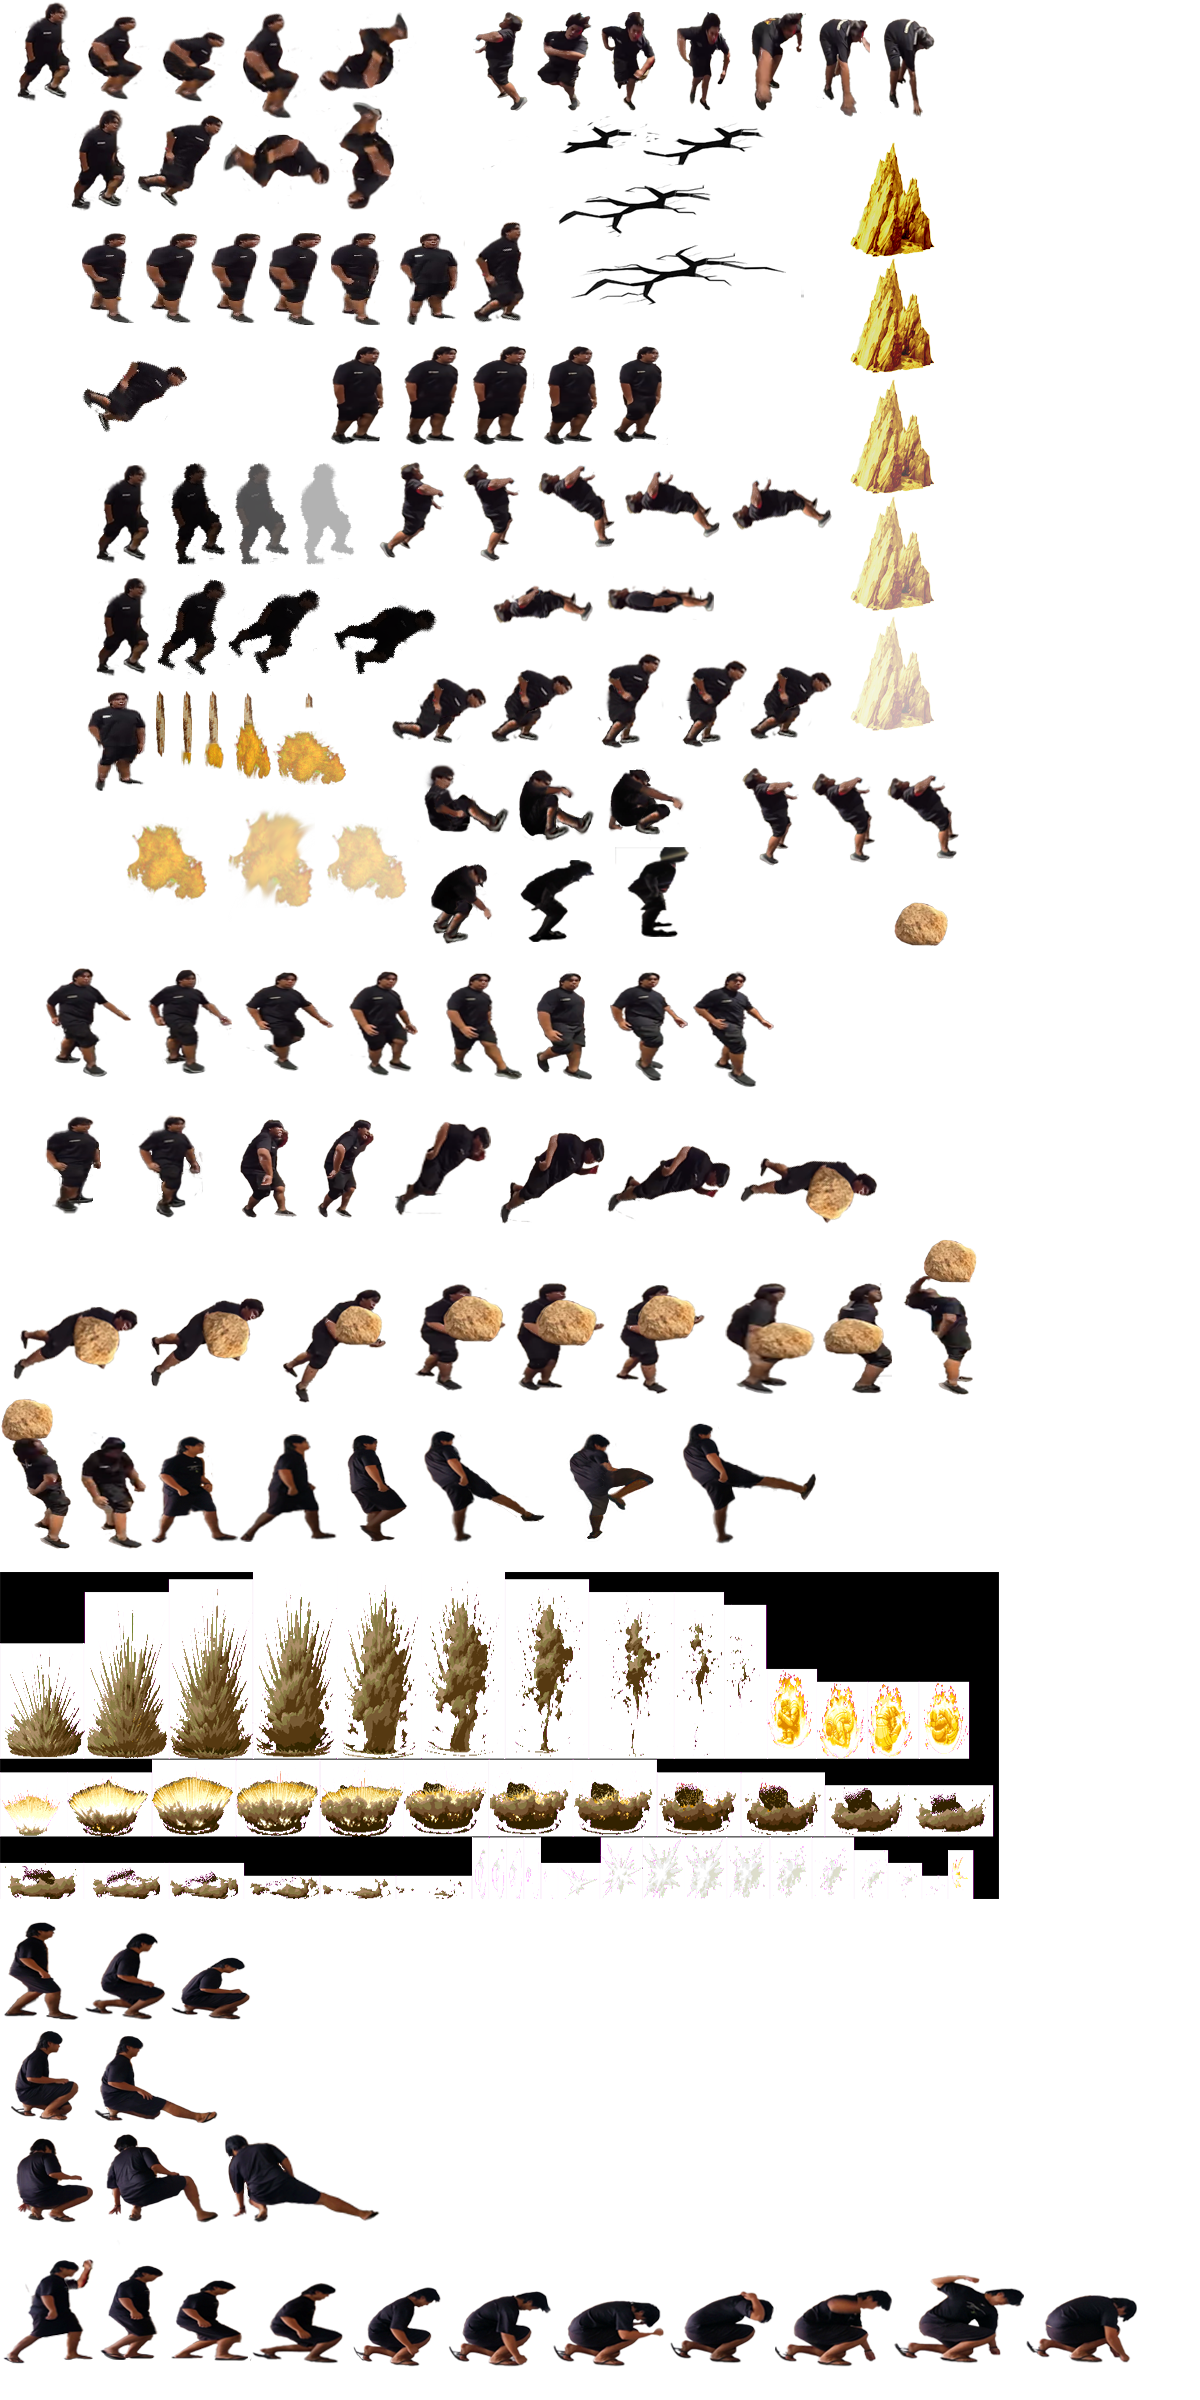
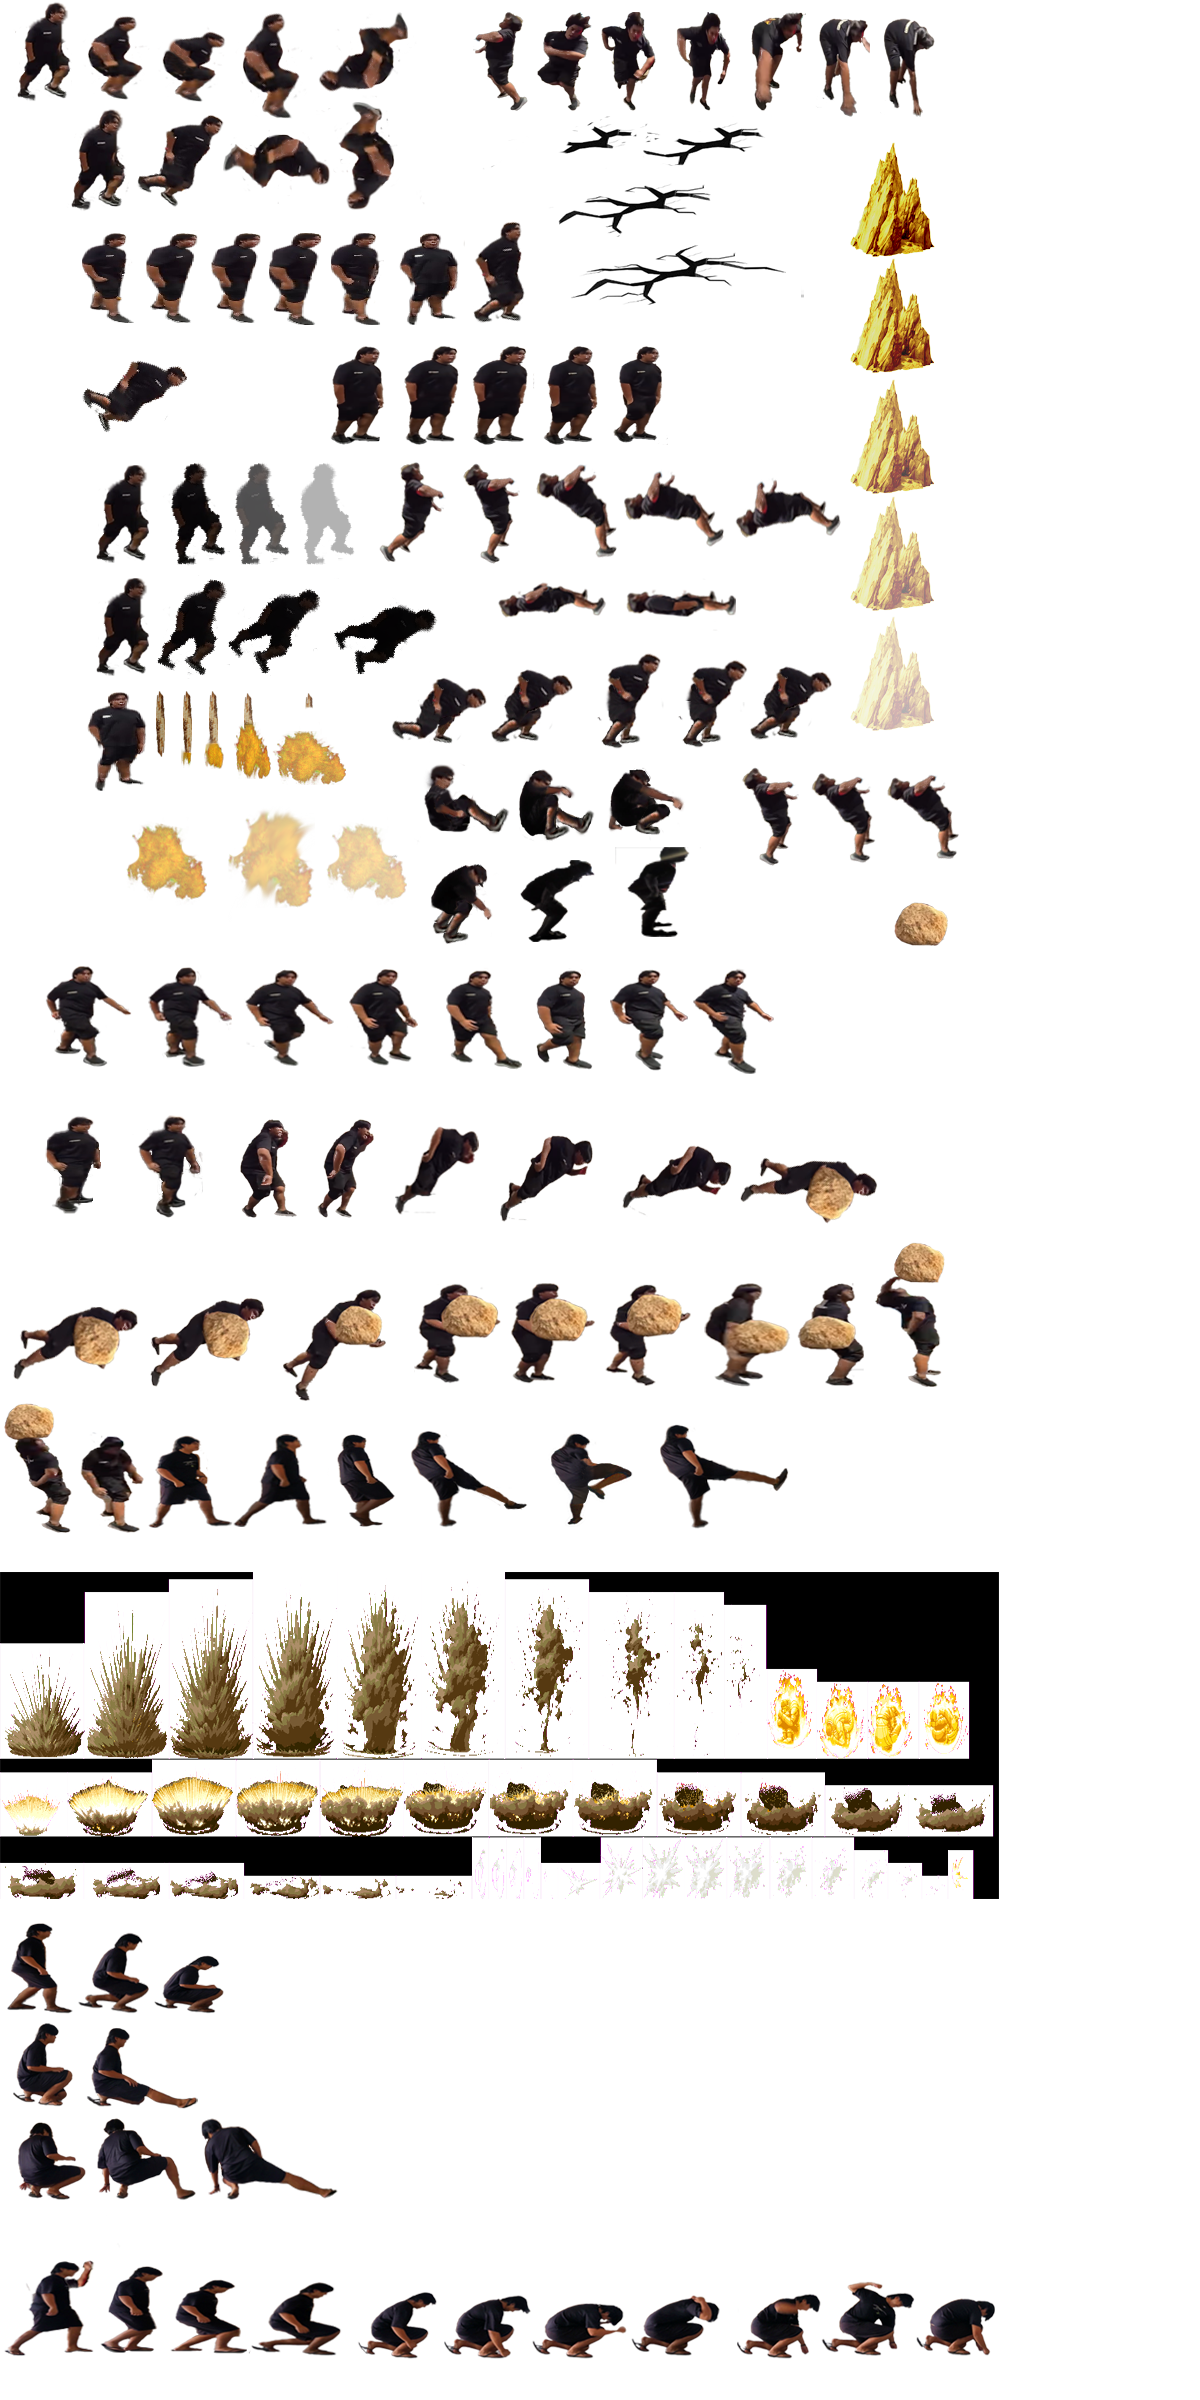
fix golem size dec 18 2025

diff --git a/src/entities/fighters/Golem.js b/src/entities/fighters/Golem.js
@@ -47,14 +47,14 @@ export class Golem extends Fighter {
             ['forwards-4', [[[543, 346,55,99],[27,97]], [-13,-82,33,78],[[-5,-95,32,22],[-20,-80,44,38],[-20,-41,40,39]]]],
             ['forwards-5', [[[613, 346,55,99],[27,97]], [-13,-82,33,78],[[-5,-95,32,22],[-20,-80,44,38],[-20,-41,40,39]]]],
 
-            ['forwards2-1', [[[45,968, 87, 109],[43,105]], PushBox.IDLE, HurtBox.IDLE]],
-            ['forwards2-2', [[[148,968, 84, 106],[42,102]], PushBox.IDLE, HurtBox.IDLE]],
-            ['forwards2-3', [[[244,972, 90, 99],[45,95]], PushBox.IDLE, HurtBox.IDLE]],
-            ['forwards2-4', [[[347,971, 71, 105],[35,101]], PushBox.IDLE, HurtBox.IDLE]],
-            ['forwards2-5', [[[446,970, 76, 111],[37,107]], PushBox.IDLE, HurtBox.IDLE]],
-            ['forwards2-6', [[[536,971, 57, 109],[28,105]], PushBox.IDLE, HurtBox.IDLE]],
-            ['forwards2-7', [[[610,972, 78, 109],[39,105]], PushBox.IDLE, HurtBox.IDLE]],
-            ['forwards2-8', [[[693,971, 81, 116],[40,112]], PushBox.IDLE, HurtBox.IDLE]],
+            ['forwards2-1', [[[45,966, 87, 101],[44,99]], PushBox.IDLE, HurtBox.IDLE]],
+            ['forwards2-2', [[[148,967, 84, 101],[42,99]], PushBox.IDLE, HurtBox.IDLE]],
+            ['forwards2-3', [[[244,969, 90, 98],[45,96]], PushBox.IDLE, HurtBox.IDLE]],
+            ['forwards2-4', [[[347,968, 71, 98],[35,96]], PushBox.IDLE, HurtBox.IDLE]],
+            ['forwards2-5', [[[446,967, 76, 103],[38,101]], PushBox.IDLE, HurtBox.IDLE]],
+            ['forwards2-6', [[[536,968, 57, 102],[28,100]], PushBox.IDLE, HurtBox.IDLE]],
+            ['forwards2-7', [[[610,969, 78, 102],[39,100]], PushBox.IDLE, HurtBox.IDLE]],
+            ['forwards2-8', [[[693,968, 81, 106],[40,104]], PushBox.IDLE, HurtBox.IDLE]],
             
             
             
@@ -76,9 +76,9 @@ export class Golem extends Fighter {
             ['jump-land', [[[87, 16, 56, 83], [28,81]], PushBox.IDLE, HurtBox.IDLE]],
 
              //Crouch
-            ['crouch-1', [[[4, 1922, 75, 98], [37,96]], PushBox.IDLE, HurtBox.JUMP]],
-            ['crouch-2', [[[84, 1932, 82, 88], [41,86]], PushBox.BEND, HurtBox.BEND]],
-            ['crouch-3', [[[171, 1957, 80, 63], [40,61]], PushBox.CROUCH, HurtBox.CROUCH]], 
+            ['crouch-1', [[[7, 1923, 66, 91], [33,89]], PushBox.IDLE, HurtBox.JUMP]],
+            ['crouch-2', [[[78, 1932, 71, 82], [35,80]], PushBox.BEND, HurtBox.BEND]],
+            ['crouch-3', [[[154, 1955, 70, 59], [35,61]], PushBox.CROUCH, HurtBox.CROUCH]], 
 
             // crouch old
            // ['crouch-1', [[[16, 3, 55, 98], [26,96]], PushBox.IDLE, HurtBox.JUMP]],
@@ -106,15 +106,14 @@ export class Golem extends Fighter {
             ['crouch-block-1', [[[558, 127, 62, 49], [31,24]], PushBox.CROUCH, HurtBox.CROUCH,]],
             
               //Crouch Light Kick
-            ['crouch-lightkick-1', [[[11, 2031, 68, 90], [34,88]], PushBox.CROUCH, HurtBox.CROUCH]],
-            ['crouch-lightkick-2', [[[94, 2035, 124, 89], [62,87]], [-55,-68,32,54], [[-42,-88,28,22],[-55,-65,36,47],[-60,-25,117,20]], [5,-17,54,16] ]],
-
+            ['crouch-lightkick-1', [[[13, 2023, 61, 84], [30,82]], PushBox.CROUCH, HurtBox.CROUCH]],
+            ['crouch-lightkick-2', [[[86, 2027, 112, 82], [66,80]], [-55,-68,32,54], [[-42,-88,28,22],[-55,-65,36,47],[-60,-25,117,20]], [5,-17,54,16] ]],
 
             //Crouch Heavvy Kick
-            ['crouch-heavykick-1', [[[16, 2138, 77, 85], [38,83]], [-32,-65,32,53], [[-30,-83,28,21],[-36,-64,51,63],[-37,-35,74,20]]]],
-            ['crouch-heavykick-2', [[[106, 2134, 113, 89], [56,87]],[-32,-65,32,53], [[-30,-83,28,21],[-36,-64,51,63],[-37,-35,90,20]]]],
-            ['crouch-heavykick-3', [[[224, 2134, 156, 89], [78,87]], [-66,-73,57,54], [[-78,-87,28,22],[-69,-74,63,64],[-49,-20,125,20]], [-8,-25,86,23]]],
-            ['crouch-heavykick-3-nohit', [[[224, 2134, 156, 89], [78,87]], [-66,-73,57,54], [[-78,-87,28,22],[-69,-74,63,64],[-49,-20,125,20]]]],
+            ['crouch-heavykick-1', [[[17, 2122, 69, 78], [40,76]], [-32,-65,32,53], [[-30,-83,28,21],[-36,-64,51,63],[-37,-35,74,20]]]],
+            ['crouch-heavykick-2', [[[97, 2118, 99, 83], [50,81]],[-32,-65,32,53], [[-30,-83,28,21],[-36,-64,51,63],[-37,-35,90,20]]]],
+            ['crouch-heavykick-3', [[[201, 2118, 135, 82], [67,80]], [-66,-73,57,54], [[-78,-87,28,22],[-69,-74,63,64],[-49,-20,125,20]], [-8,-25,86,23]]],
+            ['crouch-heavykick-3-nohit', [[[201, 2118, 135, 82], [67,80]], [-66,-73,57,54], [[-78,-87,28,22],[-69,-74,63,64],[-49,-20,125,20]]]],
 
             //Jump-attack
             ['jump-attack-1', [[[555, 42, 94, 54], [46,52]], PushBox.LIGHT_KICK, HurtBox.LIGHT_KICK, HitBox.JUMP_HEAVYKICKK]],
@@ -128,15 +127,15 @@ export class Golem extends Fighter {
             ['heavy-punch-1', [[[222, 133, 109, 55], [-8,77]], PushBox.BEND, [[3, -76, 30, 18],[3, -69, 84, 30], [-2, -52, 44, 58]], HitBox.HEAVY_PUNCH]],
 
              //lIGHT kick
-            ['light-kick-1', [[[347, 1434, 61, 108], [30,106]], [-20, -90, 40, 80],  [[-30, -108, 32, 22],[-30, -88, 44, 87], [-23, -50, 53, 20]]]],
-            ['light-kick-2', [[[423, 1429, 122, 118], [61,116]], PushBox.BEND, [[-58, -111, 32, 22],[-58, -88, 53, 87], [-35, -50, 94, 30]], [16,-35,45,16]]],
+            ['light-kick-1', [[[336, 1434, 59, 93], [30,91]], [-20, -90, 40, 80],  [[-30, -108, 32, 22],[-30, -88, 44, 87], [-23, -50, 53, 20]]]],
+            ['light-kick-2', [[[410, 1430, 118, 101], [59,99]], PushBox.BEND, [[-58, -111, 32, 22],[-58, -88, 53, 87], [-35, -50, 94, 30]], [16,-35,45,16]]],
 
              //Heavy kick
-            ['heavy-kick-1', [[[151, 1436, 87, 108], [44,106]], PushBox.BEND, [[3, -76, 30, 18],[-3, -59, 30, 20], [-32, -52, 44, 58]]]],
-            ['heavy-kick-2', [[[241, 1434, 98, 108], [49,106]], PushBox.BEND, [[3, -76, 30, 18],[-3, -59, 30, 20], [-32, -52, 44, 58]]]],
-            ['heavy-kick-3', [[[347, 1434, 61, 108], [30,106]], [-20, -90, 40, 80],  [[-30, -108, 32, 22],[-30, -88, 44, 87], [-23, -50, 53, 20]]]],
-            ['heavy-kick-4', [[[572, 1435, 86, 104], [43,102]], [-20, -90, 40, 80],  [[-30, -108, 32, 22],[-30, -88, 44, 87], [-23, -50, 53, 20]]]],
-            ['heavy-kick-5', [[[682, 1423, 135, 122], [67,120]], [-20, -90, 40, 80],  [[-30, -108, 32, 22],[-30, -88, 44, 87], [-23, -50, 53, 20]],[8,-69,60,27]]],
+            ['heavy-kick-1', [[[148, 1435, 85, 94], [42,92]], PushBox.BEND, [[3, -76, 30, 18],[-3, -59, 30, 20], [-32, -52, 44, 58]]]],
+            ['heavy-kick-2', [[[234, 1433, 94, 95], [47,93]], PushBox.BEND, [[3, -76, 30, 18],[-3, -59, 30, 20], [-32, -52, 44, 58]]]],
+            ['heavy-kick-3', [[[336, 1434, 59, 93], [30,91]], [-20, -90, 40, 80],  [[-30, -108, 32, 22],[-30, -88, 44, 87], [-23, -50, 53, 20]]]],
+            ['heavy-kick-4', [[[547, 1431, 86, 96], [43,94]], [-20, -90, 40, 80],  [[-30, -108, 32, 22],[-30, -88, 44, 87], [-23, -50, 53, 20]]]],
+            ['heavy-kick-5', [[[659, 1424, 130, 105], [65,103]], [-20, -90, 40, 80],  [[-30, -108, 32, 22],[-30, -88, 44, 87], [-23, -50, 53, 20]],[8,-69,60,27]]],
 
             //Hit Face
             ['hurt-face-3', [[[886, 774,73,84],[26,90]], PushBox.IDLE, HurtBox.IDLE]],
@@ -178,12 +177,15 @@ export class Golem extends Fighter {
              //Death State
                  ['death-1', [[[379, 461, 67, 97], [33,95]], [-6,-91,24,65], [[-10,-97,28,22],[-6,-75,33,48],[-26,40,39,39]]]],
                  ['death-2', [[[462, 463, 58, 99], [29,97]],[-9,-83,28,65], [[-25,-97,28,22],[-7,-79,33,48],[-14,-40,39,39]]]],
-                 ['death-3', [[[538, 464, 78, 84], [39,82]],[-14,-72,48,44], [[-37,-76,28,22],[-10,-72,40,36],[16,-40,23,39]]]],
-                ['death-4', [[[624, 469, 97, 70], [48,68]],[-23,-45,60,26], [[-46,-46,28,22],[-23,-58,45,38],[25,-38,22,37]]]],
-                ['death-5', [[[731, 476, 102, 55], [51,53]],[-25,-32,60,26], [[-48,-23,28,22],[-26,-40,45,38],[19,-31,28,31]]]],
-                ['death-6', [[[492, 585, 102, 39], [51,37]],[-25,-32,60,26], [[-48,-23,28,22],[-26,-40,45,38],[19,-31,28,31]]]],
-                ['death-7', [[[606, 585, 108, 29], [54,27]],[-25,-32,60,26], [[-48,-23,28,22],[-26,-40,45,30],[19,-31,28,31]]]],
-                ['death-8', [[[606, 585, 108, 29], [54,27]],[-25,-32,60,26], HurtBox.NULL]],
+                 ['death-3', [[[536, 463, 82, 95], [41,93]],[-14,-72,48,44], [[-37,-76,28,22],[-10,-72,40,36],[16,-40,23,39]]]],
+               
+                 ['death-4', [[[624, 469, 101, 79], [50,77]],[-23,-45,60,26], [[-46,-46,28,22],[-23,-58,45,38],[25,-38,22,37]]]],
+                
+                 ['death-5', [[[735, 477, 107, 62], [54,60]],[-25,-32,60,26], [[-48,-23,28,22],[-26,-40,45,38],[19,-31,28,31]]]],
+                
+                 ['death-6', [[[497, 582, 110, 36], [55,34]],[-25,-32,60,26], [[-48,-23,28,22],[-26,-40,45,38],[19,-31,28,31]]]],
+                ['death-7', [[[626, 589, 110, 29], [55,27]],[-25,-32,60,26], [[-48,-23,28,22],[-26,-40,45,30],[19,-31,28,31]]]],
+                ['death-8', [[[626, 589, 110, 29], [55,27]],[-25,-32,60,26], HurtBox.NULL]],
 
                 //GetUp State
                  ['getUp-1', [[[392, 678, 94, 64], [47,62]], [-25,-32,30,26], HurtBox.NULL]],
@@ -206,37 +208,37 @@ export class Golem extends Fighter {
              //Special 2 Rockman
              ['special2-1', [[[240, 1119, 57, 99], [28,97]], PushBox.IDLE, HurtBox.NULL]],
              ['special2-2', [[[317, 1119, 57, 99], [28,97]], PushBox.IDLE, HurtBox.NULL]],
-             ['special2-3', [[[395, 1121, 96, 95], [48,93]], PushBox.IDLE, HurtBox.NULL]],
-             ['special2-4', [[[500, 1132, 105, 92], [52,90]], PushBox.IDLE, HurtBox.NULL]],
-             ['special2-5', [[[607, 1145, 124, 76], [62,54]], PushBox.IDLE, HurtBox.NULL]],
+             ['special2-3', [[[395, 1126, 84, 89], [42,87]], PushBox.IDLE, HurtBox.NULL]],
+             ['special2-4', [[[500, 1135, 93, 87], [46,85]], PushBox.IDLE, HurtBox.NULL]],
+             ['special2-5', [[[622, 1145, 109, 72], [54,70]], PushBox.IDLE, HurtBox.NULL]],
              ['special2-6', [[[740, 1157, 138, 67], [69,45]], PushBox.IDLE, HurtBox.NULL]],
              ['special2-7', [[[12, 1306, 127, 74], [63,52]], PushBox.IDLE, HurtBox.NULL]],
              ['special2-8', [[[150, 1298, 115, 89], [57,67]], PushBox.IDLE, HurtBox.NULL]],
              ['special2-9', [[[283, 1289, 103, 114], [51,92]], PushBox.IDLE, HurtBox.NULL]],
-             ['special2-10', [[[414, 1284, 92, 107], [46,105]], PushBox.IDLE, HurtBox.IDLE]],
-             ['special2-11', [[[516, 1283, 89, 108], [45,106]], PushBox.IDLE, HurtBox.IDLE]],
-             ['special2-12', [[[615, 1285, 90, 109], [45,107]], PushBox.IDLE, HurtBox.IDLE]],
+             ['special2-10', [[[414, 1283, 87, 101], [44,99]], PushBox.IDLE, HurtBox.IDLE]],
+             ['special2-11', [[[510, 1283, 86, 101], [43,99]], PushBox.IDLE, HurtBox.IDLE]],
+             ['special2-12', [[[605, 1284, 86, 102], [43,100]], PushBox.IDLE, HurtBox.IDLE]],
 
              //Release Rock anim
-             ['special2-13', [[[725, 1283, 90, 111], [45,109]], PushBox.IDLE, HurtBox.IDLE]],
-             ['special2-14', [[[823, 1283, 69, 111], [35,109]], PushBox.IDLE, HurtBox.IDLE]],
-             ['special2-15', [[[903, 1239, 74, 156], [37,154]], PushBox.IDLE, HurtBox.IDLE]],
-             ['special2-16', [[[1, 1398, 70, 151], [35,149]], PushBox.IDLE, HurtBox.IDLE]],
-             ['special2-17', [[[80, 1432, 67, 117], [33,115]], PushBox.IDLE, HurtBox.IDLE]],
+             ['special2-13', [[[705, 1283, 86, 104], [43,102]], PushBox.IDLE, HurtBox.IDLE]],
+             ['special2-14', [[[797, 1283, 67, 103], [33,101]], PushBox.IDLE, HurtBox.IDLE]],
+             ['special2-15', [[[874, 1242, 71, 145], [35,143]], PushBox.IDLE, HurtBox.IDLE]],
+             ['special2-16', [[[4, 1403, 68, 130], [34,128]], PushBox.IDLE, HurtBox.IDLE]],
+             ['special2-17', [[[80, 1432, 64, 101], [32,99]], PushBox.IDLE, HurtBox.IDLE]],
 
              //hyper skill 1
-             ['hyperskill1-1', [[[3, 2260, 91, 104], [45,102]], [15,-70,50,60], HurtBox.NULL,]],
-             ['hyperskill1-2', [[[100, 2265, 64, 95], [32,93]], [15,-70,50,60], HurtBox.NULL,]],
-             ['hyperskill1-3', [[[171, 2280, 77, 81], [38,79]], PushBox.IDLE, HurtBox.NULL]],
-             ['hyperskill1-4', [[[251, 2283, 93, 81], [46,79]], PushBox.IDLE, HurtBox.NULL]],
-             ['hyperskill1-5', [[[353, 2287, 89, 80], [45,78]], PushBox.IDLE, HurtBox.NULL]],
-             ['hyperskill1-6', [[[448, 2291, 104, 76], [52,74]], PushBox.IDLE, HurtBox.NULL]],
-             ['hyperskill1-7', [[[552, 2300, 113, 67], [56,65]], PushBox.IDLE, HurtBox.NULL]],
+             ['hyperskill1-1', [[[4, 2260, 91, 97], [45,95]], [15,-70,50,60], HurtBox.NULL,]],
+             ['hyperskill1-2', [[[100, 2266, 63, 87], [31,85]], [15,-70,50,60], HurtBox.NULL,]],
+             ['hyperskill1-3', [[[170, 2279, 81, 75], [40,73]], PushBox.IDLE, HurtBox.NULL]],
+             ['hyperskill1-4', [[[249, 2282, 93, 74], [46,72]], PushBox.IDLE, HurtBox.NULL]],
+             ['hyperskill1-5', [[[357, 2291, 81, 68], [40,66]], PushBox.IDLE, HurtBox.NULL]],
+             ['hyperskill1-6', [[[444, 2295, 87, 64], [44,62]], PushBox.IDLE, HurtBox.NULL]],
+             ['hyperskill1-7', [[[532, 2303, 95, 56], [47,54]], PushBox.IDLE, HurtBox.NULL]],
+             ['hyperskill1-8', [[[631, 2295, 89, 61], [45,59]], PushBox.IDLE, HurtBox.NULL, [15,-70,50,60]]],
+             ['hyperskill1-9', [[[737, 2293, 84, 66], [42,64]], PushBox.IDLE, HurtBox.NULL]],
 
-             ['hyperskill1-8', [[[669, 2290, 105, 74], [52,72]], PushBox.IDLE, HurtBox.NULL, [15,-70,50,60]]],
-             ['hyperskill1-9', [[[775, 2289, 118, 78], [59,76]], PushBox.IDLE, HurtBox.NULL]],
-             ['hyperskill1-10', [[[893, 2275, 131, 89], [65,87]], PushBox.IDLE, HurtBox.NULL]],
-             ['hyperskill1-11', [[[1026, 2295, 111, 69], [55,67]], PushBox.IDLE, HurtBox.NULL, [15,-70,50,60]]],
+             ['hyperskill1-10', [[[821, 2281, 93, 75], [46,73]], PushBox.IDLE, HurtBox.NULL]],
+             ['hyperskill1-11', [[[916, 2298, 79, 58], [40,56]], PushBox.IDLE, HurtBox.NULL, [15,-70,50,60]]],
 
             
         ]);

diff --git a/src/StreetFighterGame.js b/src/StreetFighterGame.js
@@ -21,7 +21,7 @@ const selectedCharacters = [
         imageBig: 'malupitonBig' 
     },
     { 
-        name: "Golem", 
+        name: "Malupiton", 
         color: "gray", 
         namePos: 5,
         sayings: 'Sabi ko naman sayo burger ka saken',
@@ -40,10 +40,10 @@ export class StreetFighterGame{
 
     constructor(){
         
-this.scene = new Intro(this);
+//this.scene = new Intro(this);
 //this.scene = new MainMenu(this);
 //this.scene = new OptionsMenu(this);
-//this.scene = new BattleScene(this, selectedCharacters);
+this.scene = new BattleScene(this, selectedCharacters);
 // this.scene = new CharacterSelect(this);
 // this.scene = new PrePostMatch(this, selectedCharacters);
     }

diff --git a/src/state/gameState.js b/src/state/gameState.js
@@ -25,7 +25,7 @@ export const gameState = {
     skillNumber: 3,
     fighterNotIdle: false,
     difficultyIndex: 1,
-    difficulty: 'normal',
+    difficulty: 'insane',
     buttonHold: false,
     stage: 'final',
     flash: false,
@@ -42,8 +42,8 @@ export const gameState = {
     shadowInvert: true,
     // for Enemy AI
     bot: {
-      player1: false,
-      player2: false,
+      player1: true,
+      player2: true,
     },
     // Onscreen controls settings
     buttonTransparency: 1, // 0 to 1

diff --git a/src/entities/fighters/Fighter.js b/src/entities/fighters/Fighter.js
@@ -1527,7 +1527,7 @@ const newPalette = [
 //this.colorSwappedImage = newImage;
 
 if(color === "invert")this.colorSwappedImage = invertSprite(this.image);
-else this.colorSwappedImage = hueShiftSprite(this.image, 180, 2, 1);
+else this.colorSwappedImage = hueShiftSprite(this.image, 340, 2, 1);
 
 
 
